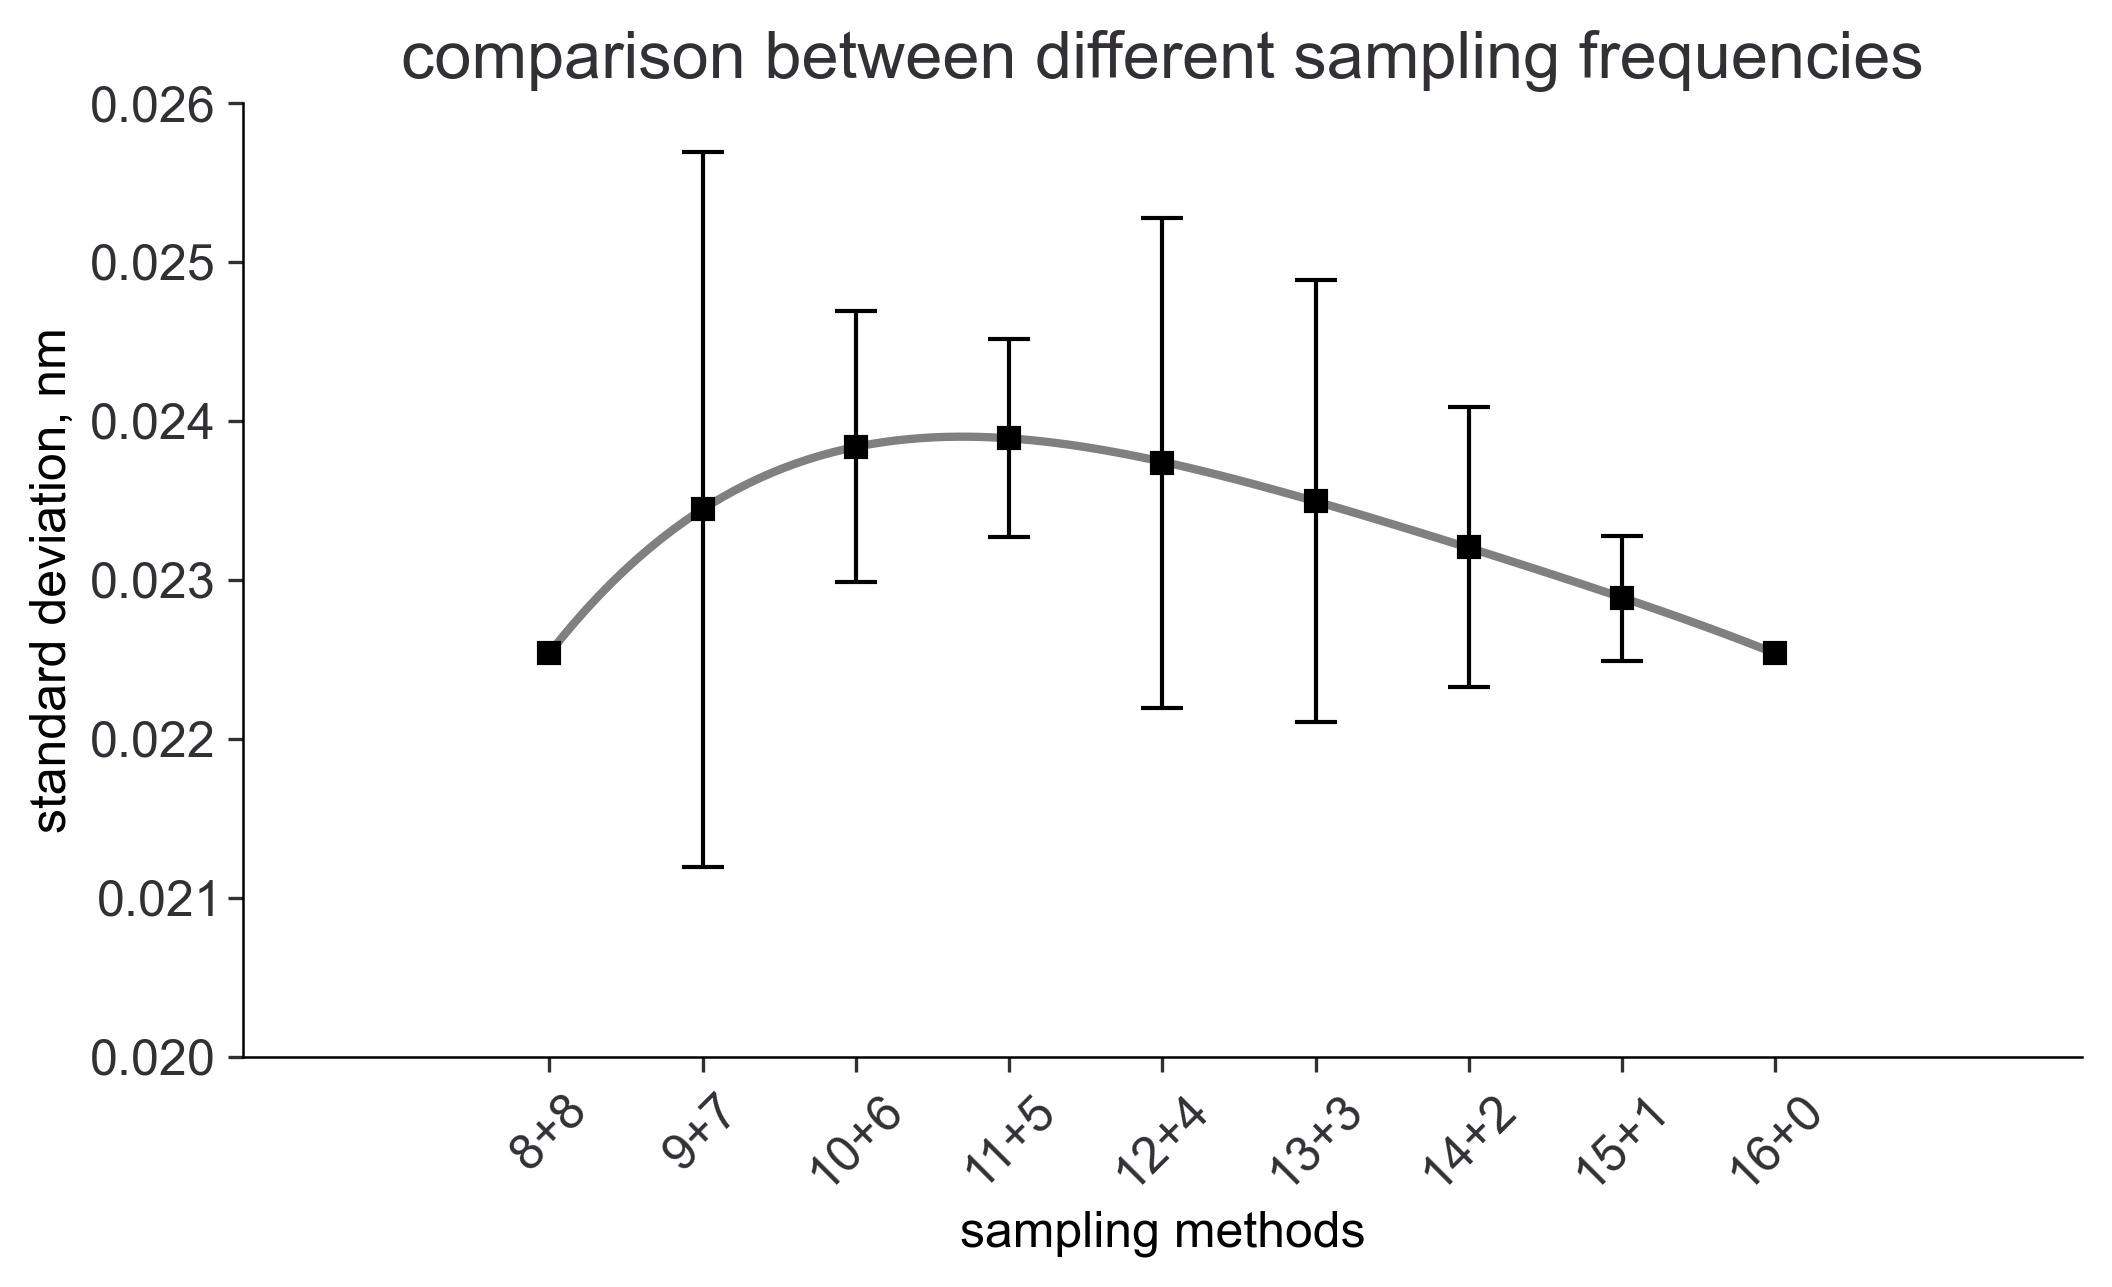
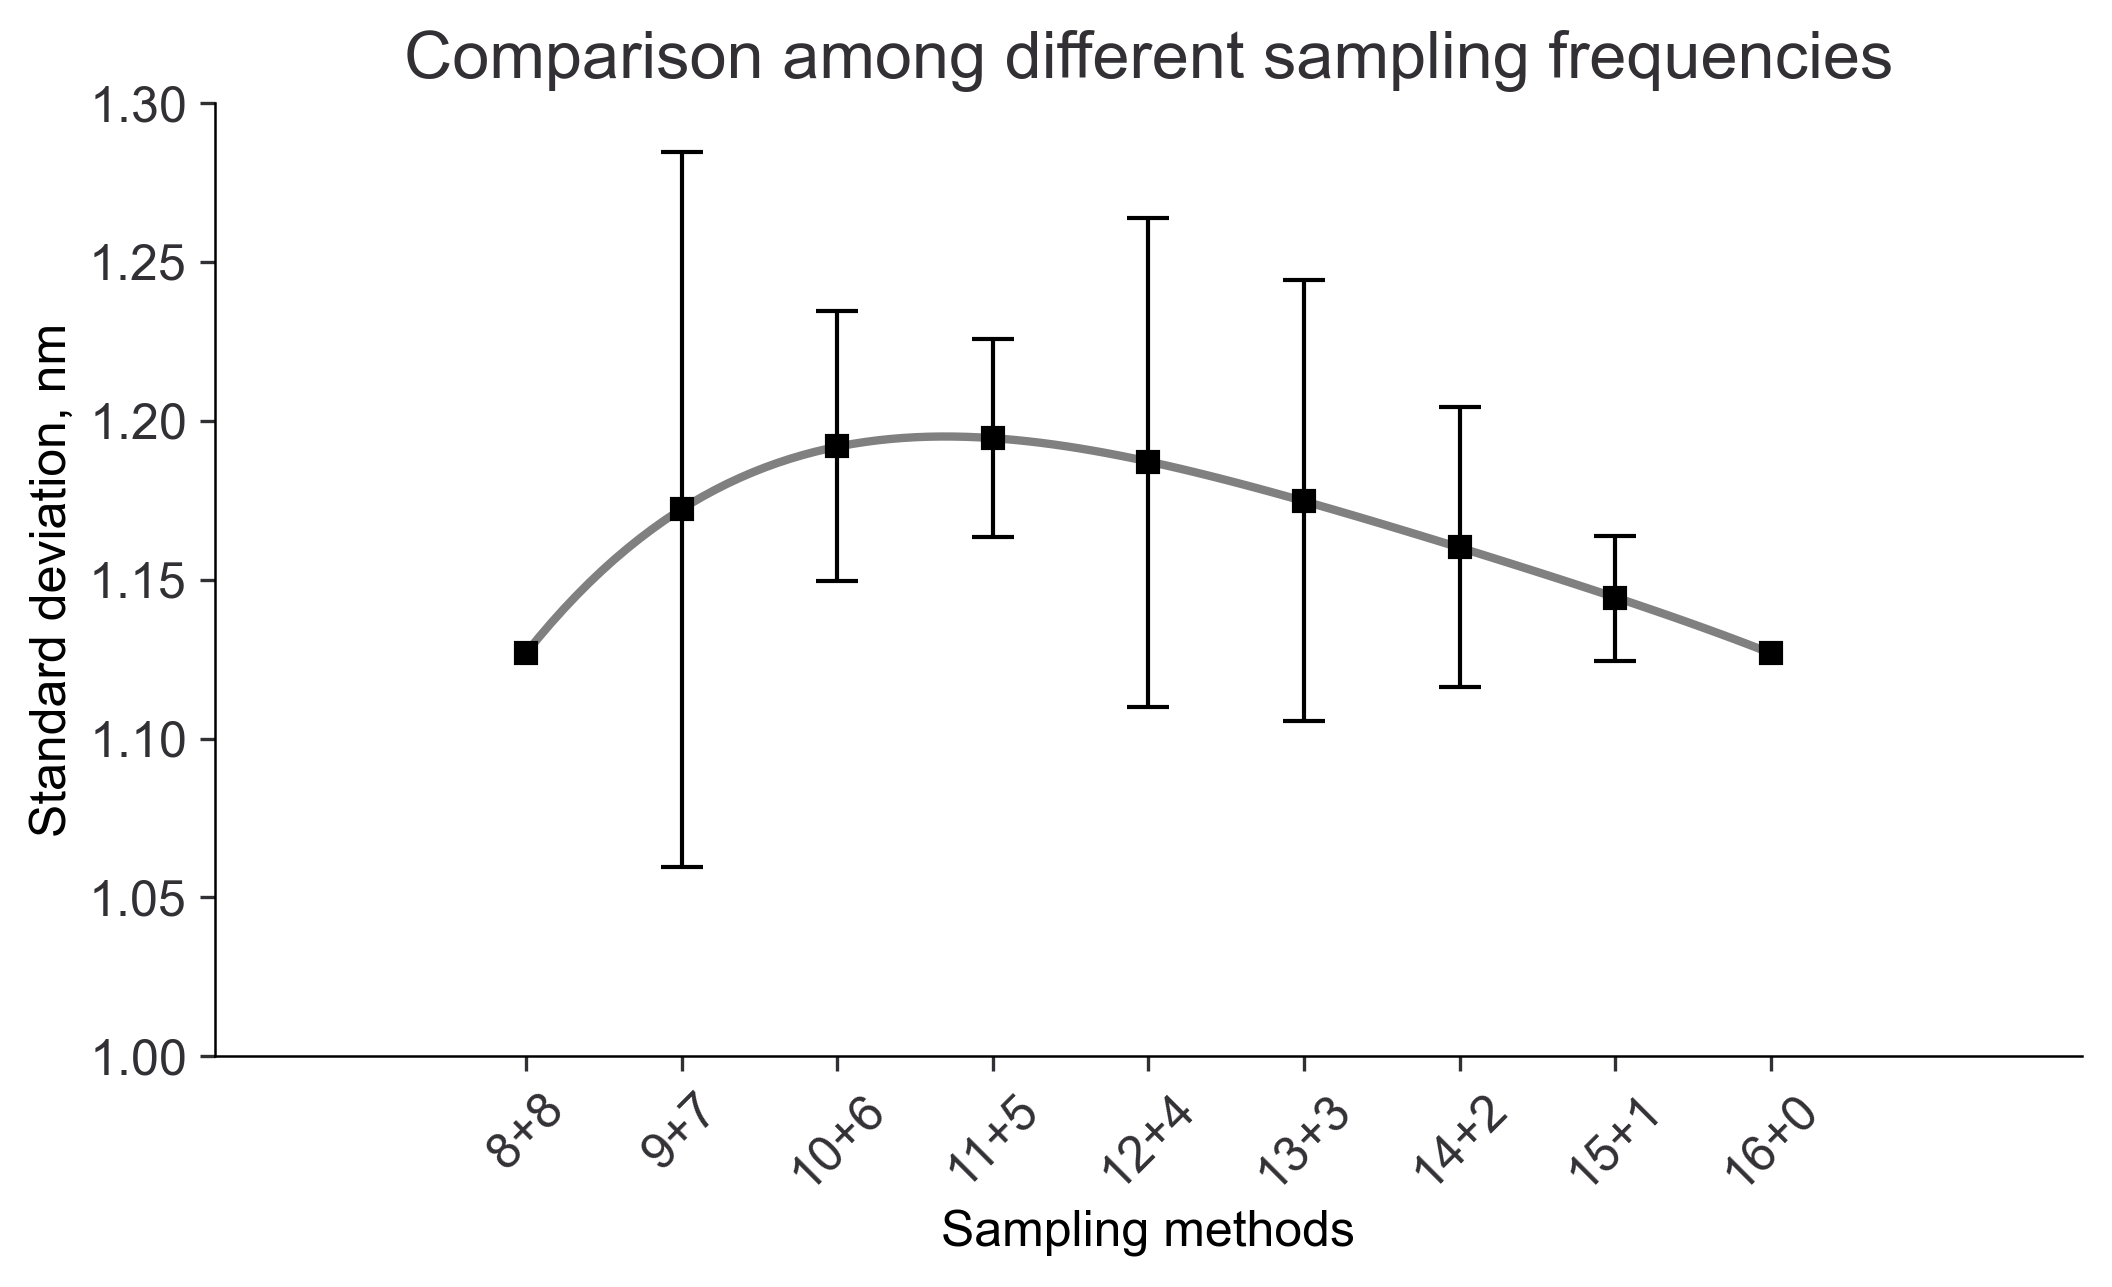
function of PSI

diff --git a/run_add.py b/run_add.py
@@ -1,0 +1,40 @@
+# @Time    : 2022/10/22 9:51
+# @Author  : Xingyu Rao
+# @Email   : x.rao@tu-braunschweig.de
+# @File    : run_add.py
+# @Software: PyCharm
+import matplotlib.pyplot as plt
+from PSI_algorithms.N_plus_M_Step import *
+from PSI_algorithms.Data_Process import *
+from PSI_algorithms.N_Step import *
+
+# %% comparison between 2N sampling points and N+N sampling points
+
+N = np.append(np.array([3]), np.arange(5, 11, 1))
+std_NN = np.array([])
+std_2N = np.array([])
+for i in N:
+    _, std_nn = N_M_step(step=i, over_sample_points=i,loop=10)
+    std_NN = np.append(std_NN, np.nanmean(outlier_delete(std_nn)))
+    _, std_2n = n_step(step=i * 2)
+    std_2N = np.append(std_2N, np.nanmean(outlier_delete(std_2n)))
+
+plt.style.use('scientific')
+plt.figure()
+factor = 530 / (4 * np.pi)
+plt.loglog(N * 2, std_2N, 'k-', label='2N sampling interferograms', zuorder=1)
+plt.scatter(N * 2, std_NN, color='blue', label='N+N sampling interferograms', edgecolors='blue', zorder=2)
+plt.scatter(np.array([8]), np.array([np.sqrt(3 / 2 / 8) * factor * 5 * np.pi / 180]), color='white', marker='o',
+            edgecolors='k', zorder=2)
+
+plt.xlabel('Number of sampling interferograms (2N)')
+plt.ylabel('Standard deviation, nm')
+
+plt.xticks([6, 10, 12, 14, 16, 18, 20], [r'$6$', r'$10$', r'$12$', r'$14$', r'$16$', r'$18$', r'$20$'])
+plt.xlim(5, 30)
+plt.legend(loc='upper right')
+plt.title('Comparison between 2N and N+N sampling interferograms')
+plt.tight_layout()
+#plt.savefig('Images/Positioning Noise/STD/comparison between 2N sampling points and N+N sampling points',
+#            bbox_inches='tight')
+plt.show(block=1)
